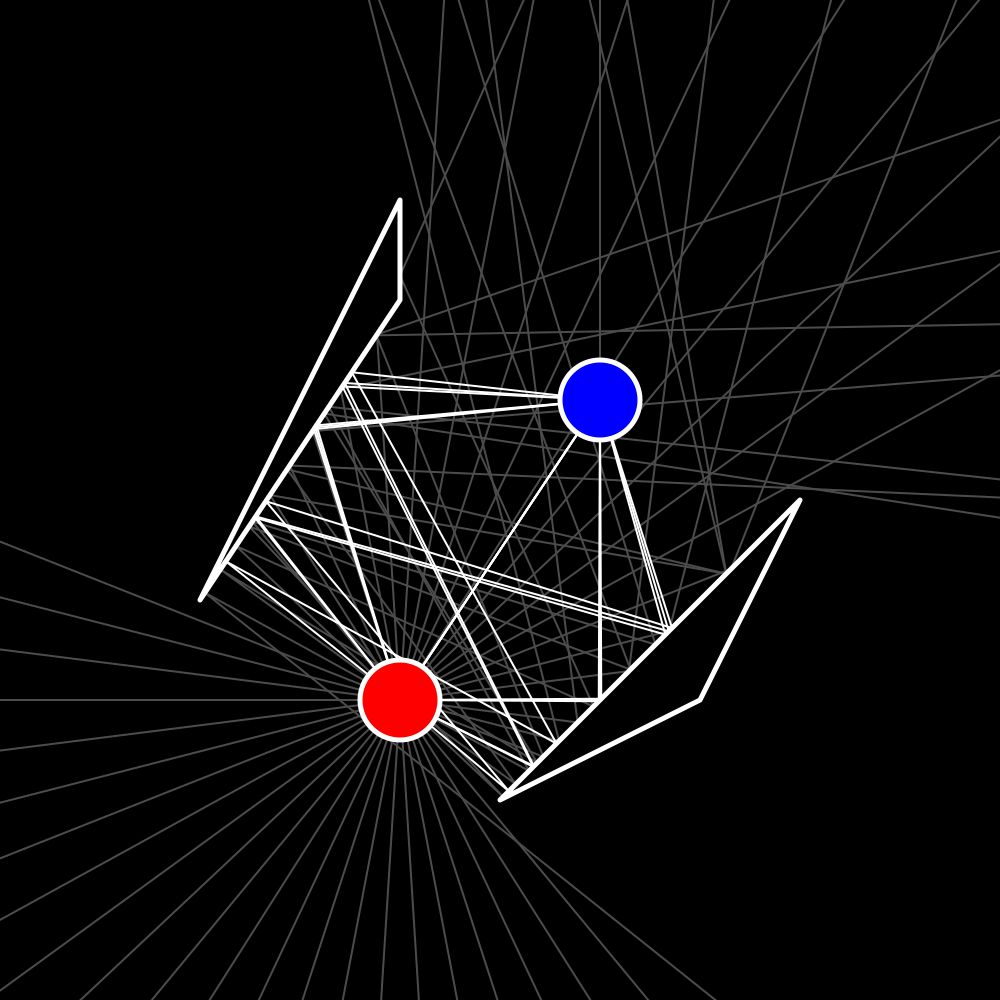
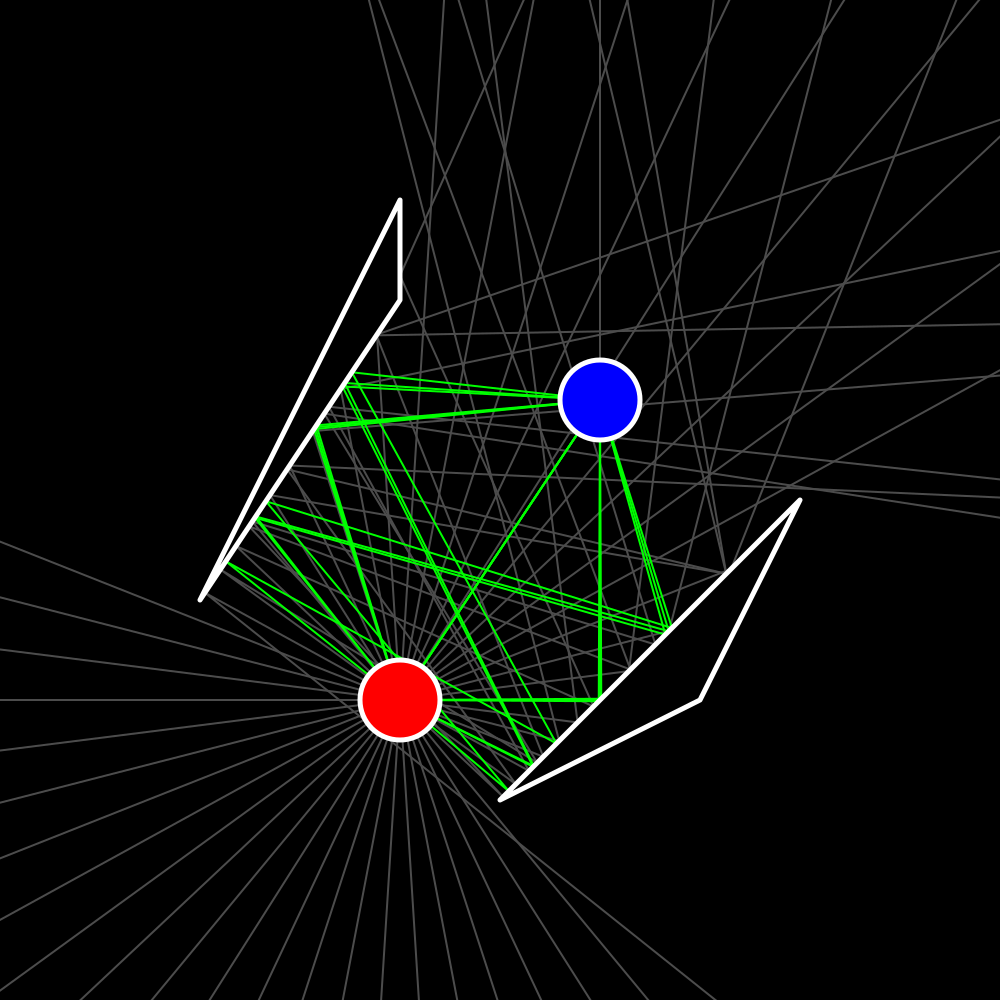
more docs

Changed region(s): [[0.217, 0.372, 0.682, 0.775], [0.527, 0.465, 0.558, 0.496]]

diff --git a/multipatprop.py b/multipatprop.py
@@ -1,7 +1,9 @@
+"""A library for simulating multipath propagation of electromagnetic waves under interference."""
+
 from __future__ import annotations
-from math import pi, tau, cos, sin
+from math import tau, cos, sin
 from itertools import pairwise
-from euclid import Vector2 as Vector, Point2 as Point, Ray2 as Ray, LineSegment2 as Segment, Circle
+from euclid import Point2 as Point, Vector2 as Vector, Ray2 as Ray, LineSegment2 as Segment
 
 
 class System:
@@ -70,12 +72,10 @@ class System:
         return path, None
 
 
-
-
-
 class Transmitter:
     """A device that sends electromagnetic waves in every direction."""
     position: Point
+
     def __init__(self, position: Point) -> None:
         self.position = position
 
@@ -83,6 +83,7 @@ class Transmitter:
 class Receiver:
     """A device that receives electromagnetic waves from a transmitter."""
     position: Point
+
     def __init__(self, position: Point) -> None:
         self.position = position
 
@@ -91,6 +92,7 @@ class Interferer:
     """An obstruction between the transmitter and receiver that reflects incoming light."""
     points: list[Point]
     segments: list[Segment]
+
     def __init__(self, points: list[Point]) -> None:
         self.points = points
         self.segments = []

diff --git a/main.py b/main.py
@@ -1,7 +1,7 @@
 from __future__ import annotations
 from math import cos, sin, tau
 import cairo
-from multipatprop import System, Transmitter, Receiver, Interferer, Vector, Point, Ray, Segment, Circle
+from multipatprop import System, Transmitter, Receiver, Interferer, Point
 
 
 transmitter = Transmitter(Point(4, 3))
@@ -52,7 +52,7 @@ with cairo.ImageSurface(cairo.FORMAT_RGB24, 1000, 1000) as surface:
         for point in path_propagated[0]:
             context.line_to(point.x, point.y)
         context.line_to(system.receiver.position.x, system.receiver.position.y)
-        context.set_source_rgb(1, 1, 1)
+        context.set_source_rgb(0, 1, 0)
         context.set_line_width(0.02)
         context.set_line_join(cairo.LINE_JOIN_ROUND)
         context.set_line_cap(cairo.LINE_CAP_ROUND)
